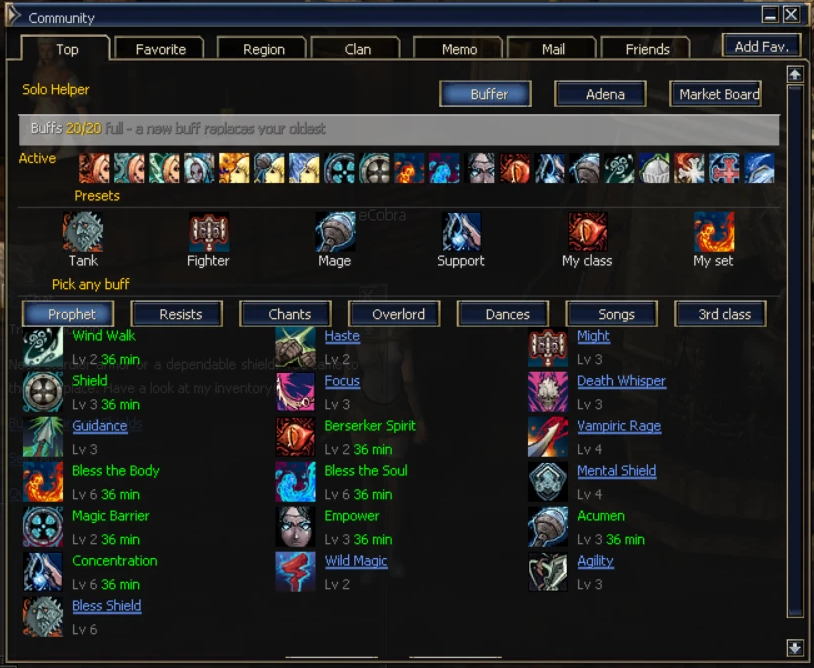
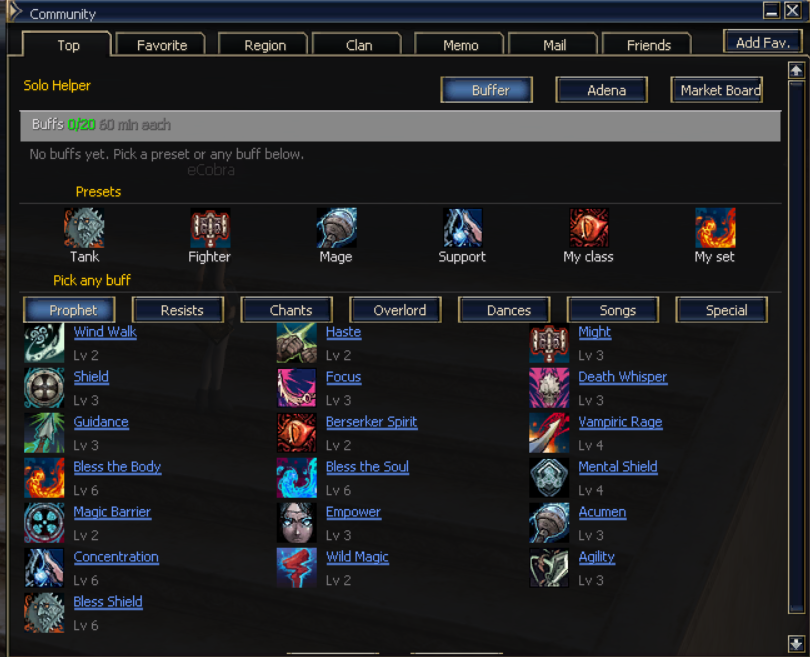
Guide: new screenshots of the Buffer and Special tabs

diff --git a/solo/guides/SOLO_HELPER.md b/solo/guides/SOLO_HELPER.md
@@ -9,6 +9,9 @@ Playing [L2Solo](https://github.com/pmbstyle/L2Solo) on your own and tired of ru
 **Buffer tab**
 - **89 buffs at their max level**, in 7 tabs: Prophet, Resists, Chants, Overlord, Dances, Songs and Special. Click the icon or the name.
 - **Special tab:** the 3rd-class buffs, plus the four summoner servitor buffs with their C4 values:
+
+  ![The Special tab](solo-helper-special.png)
+
   - Blessing of Queen: crit rate x1.30, crit damage x1.25
   - Gift of Queen: P.Atk x1.10, accuracy +3
   - Blessing of Seraphim: MP regen x1.35
